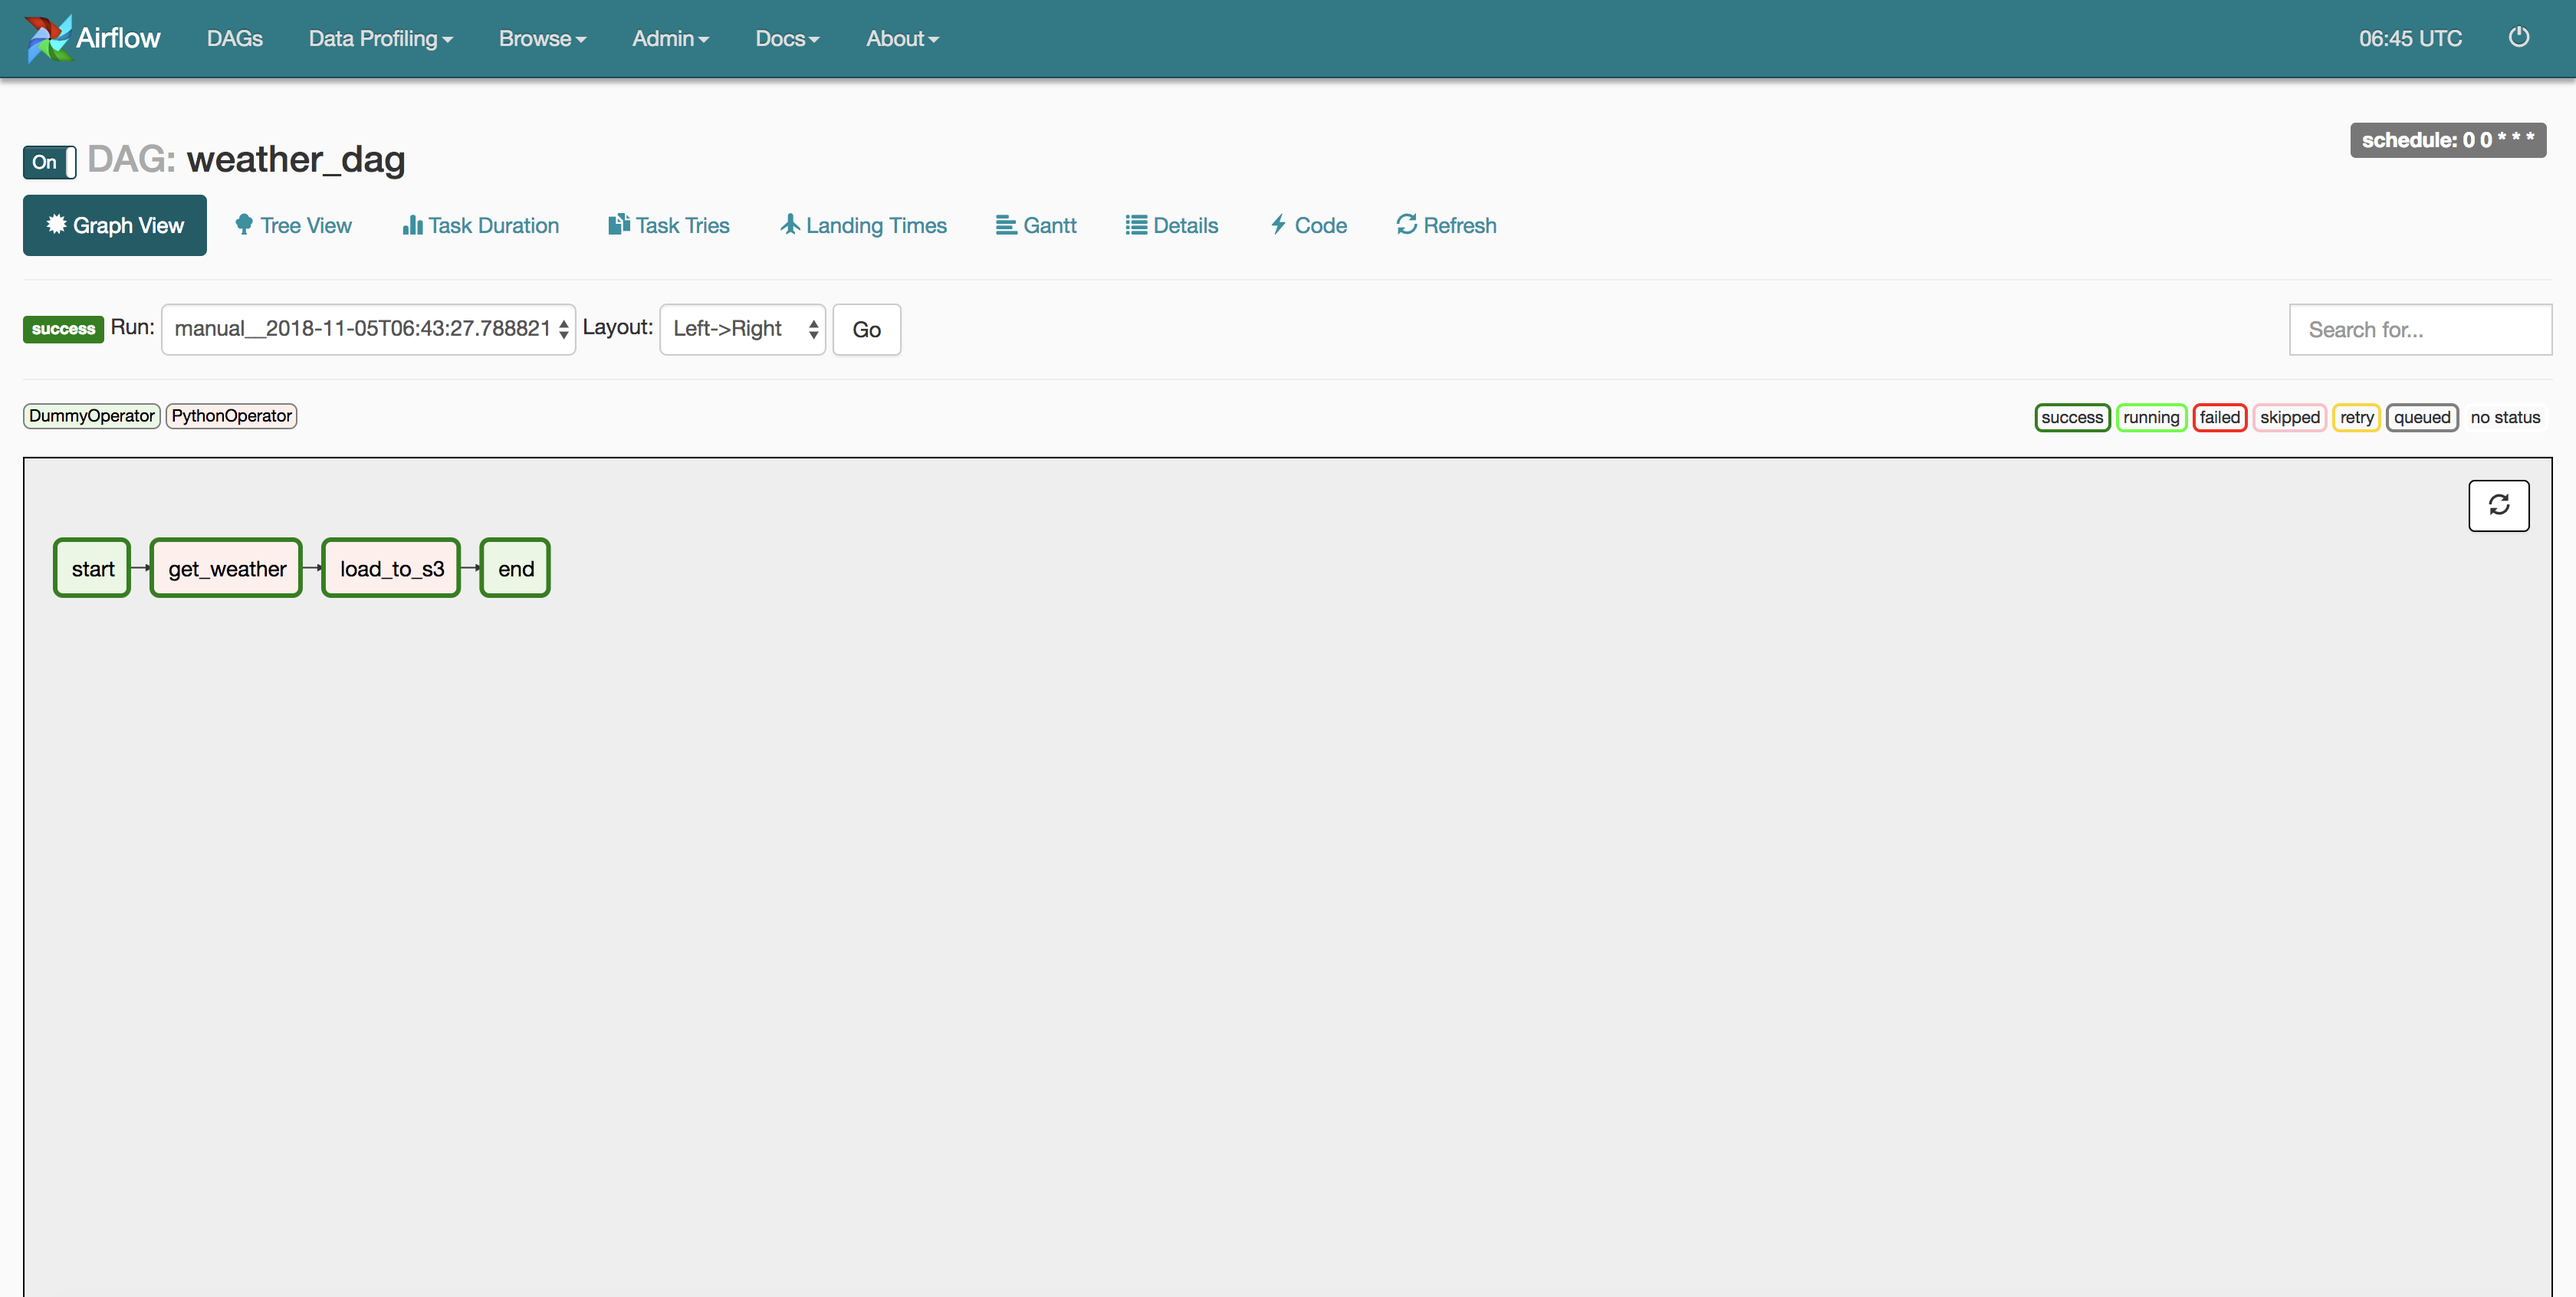
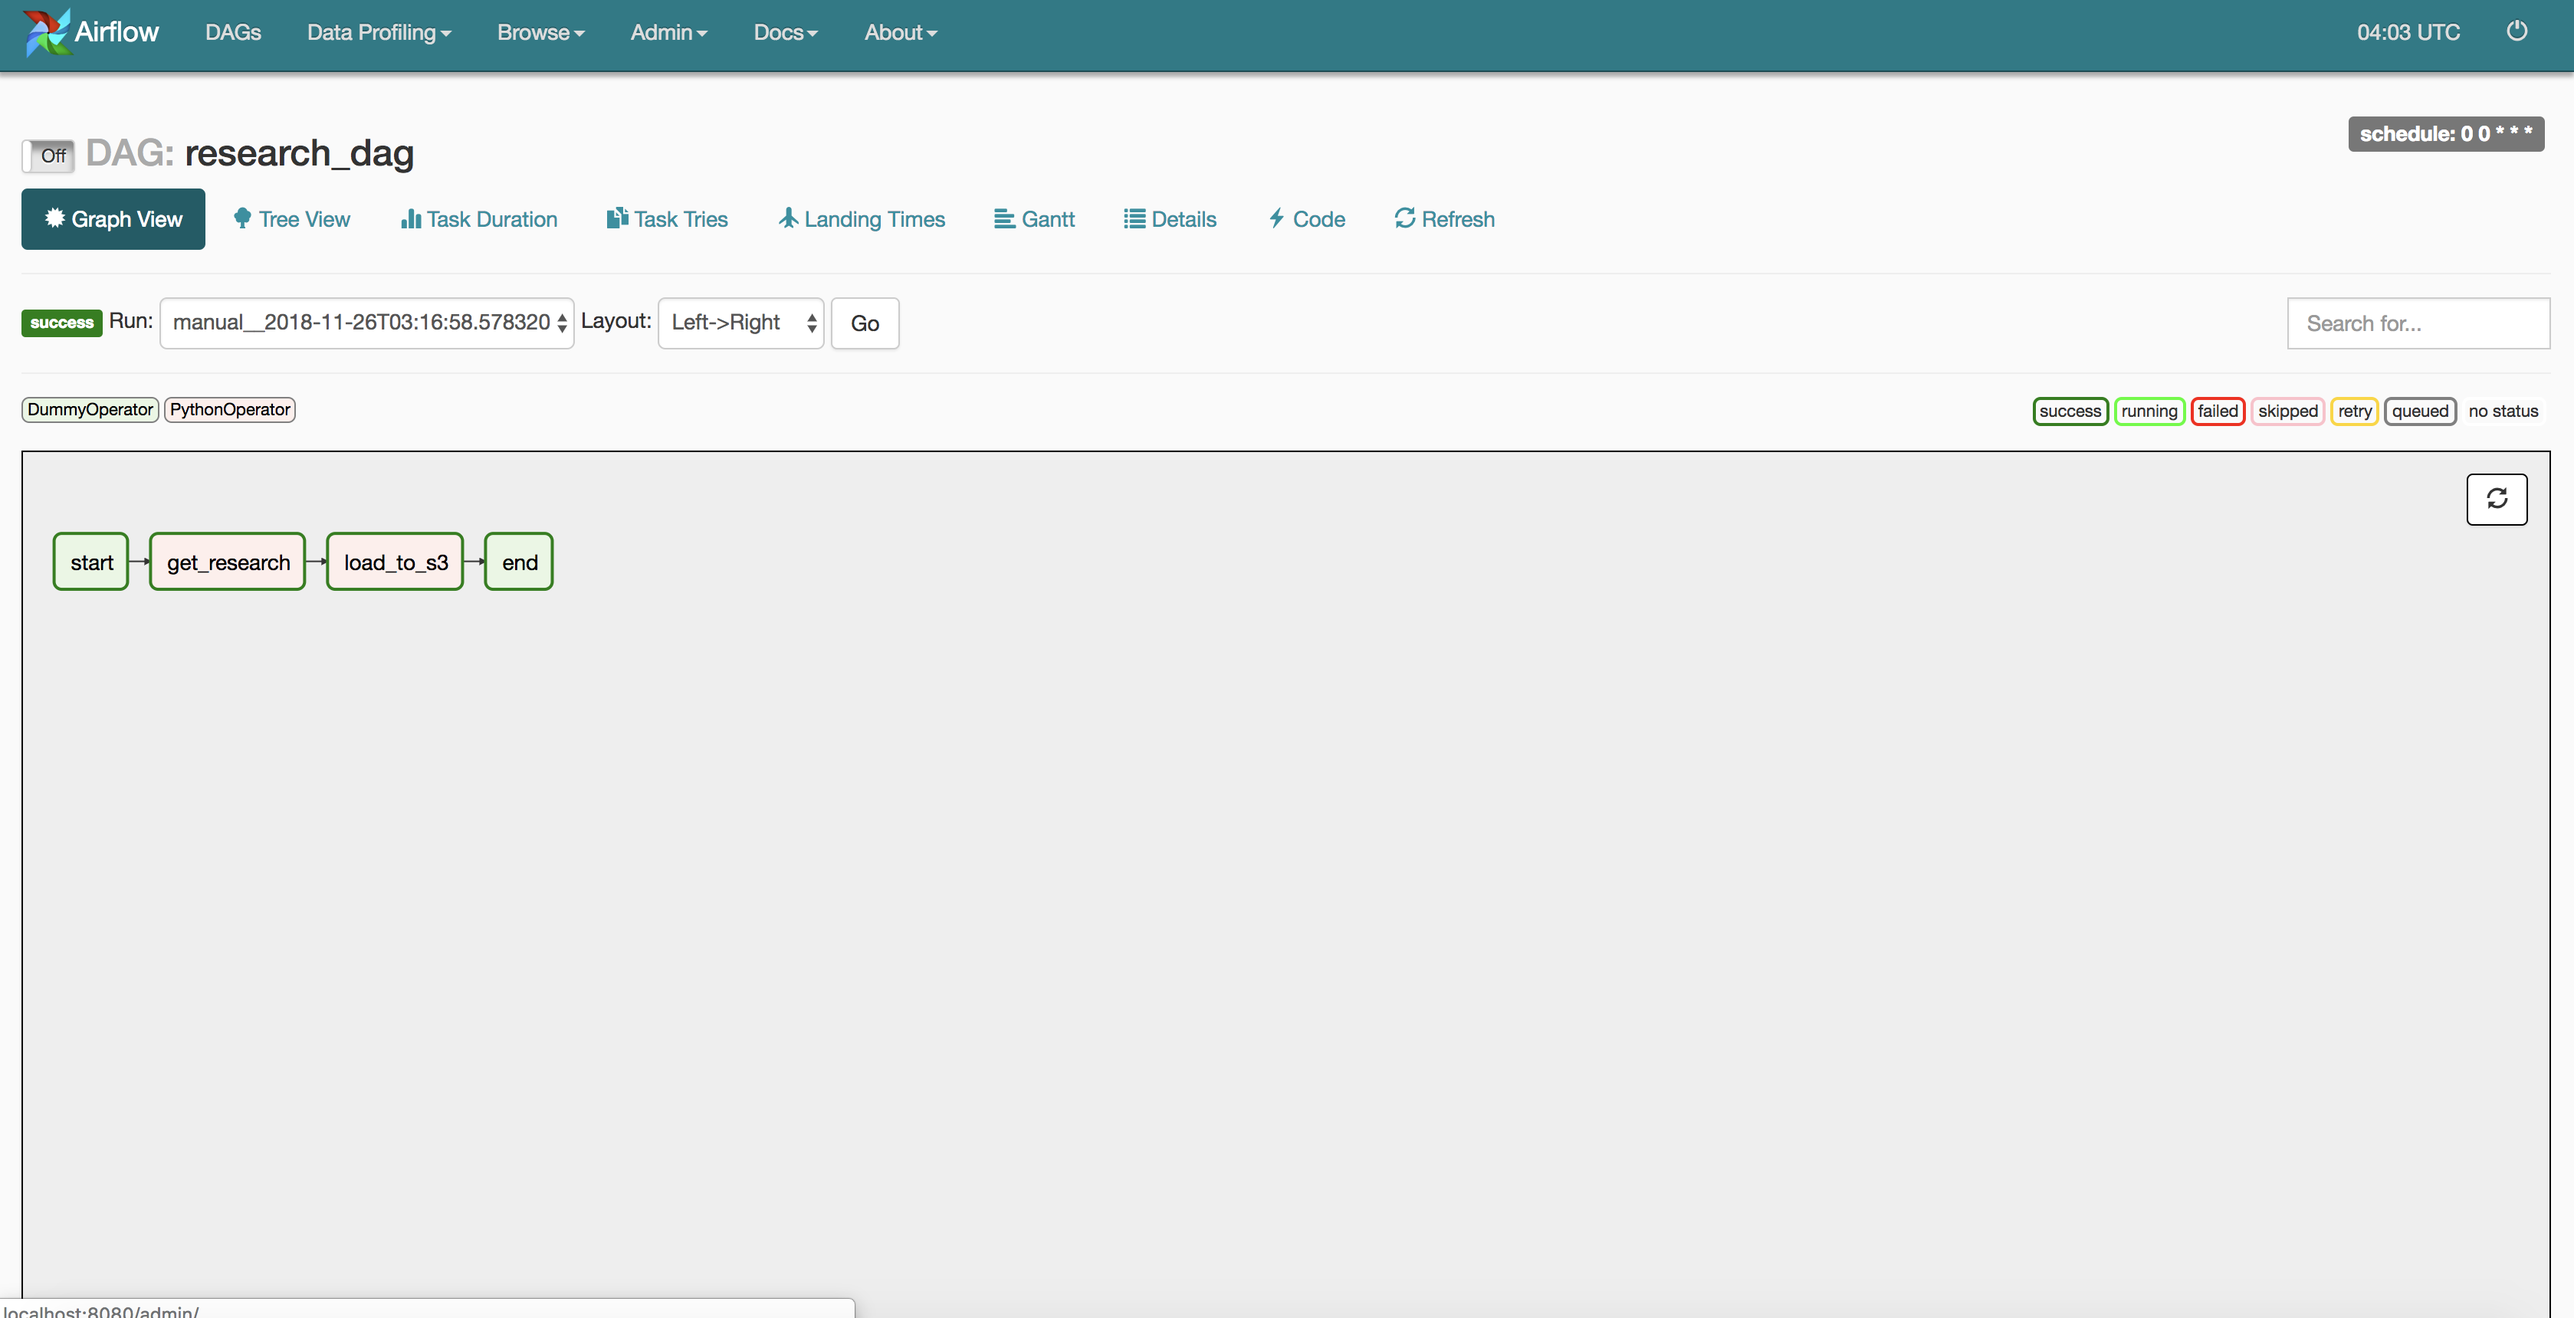
finish airflow README

diff --git a/airflow_demo/dags/research_bag.py b/airflow_demo/dags/research_bag.py
@@ -32,7 +32,7 @@ start_tast = DummyOperator(
 )
 
 
-# Fetch ..., flatten into .csv files, save on local file system
+# Fetch research data flatten into .csv files, save on local file system
 get_research_task = PythonOperator(task_id='get_research',
                                   provide_context=True,
                                   python_callable=c.Extract_Transform.save_csv,

diff --git a/airflow_demo/dags/challenge/load.py b/airflow_demo/dags/challenge/load.py
@@ -19,8 +19,8 @@ class Load:
 		bucket_name = 'storeresearch'
 
 		session = boto3.Session(
-			aws_access_key_id='AKIAIJSTLZQYPLLCLK7Q',
-			aws_secret_access_key='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',
+			aws_access_key_id='',
+			aws_secret_access_key='',
 			region_name='us-east-1'
 		)
 		s3 = session.resource('s3')

diff --git a/airflow_demo/README.md b/airflow_demo/README.md
@@ -1,41 +1,44 @@
-# Simple Airflow Demo 
-This Airflow is just for demo purpose to help demonstrate Producation ETL design. One [Apache Airflow](https://airflow.apache.org) simple data pipeline (weather_bag) to fetch data from [Weather API](https://openweathermap.org/api), transform the data into a tabular structure (.csv), and store the transformed data on [Amazon S3](https://aws.amazon.com/s3/).
+# Sample Airflow Demo 
+This sample Airflow data pipeline is for demo purpose to help demonstrate how to convert ETL python scripts to production data pipeline. One [Apache Airflow](https://airflow.apache.org) data pipeline (research_bag) to fetch research data (articles and journals) from [PLOS Search API](http://api.plos.org/solr/examples) and [DOAJ API](https://doaj.org/api/v1/docs#!/Search/get_api_v1_search_articles_search_query), transform the data into a tabular structure (.csv), and store the transformed data on [Amazon S3](https://aws.amazon.com/s3/).
 
 ## Prerequisites
-1. [Python 3.6](https://www.python.org/) and [Virtualenv](https://virtualenv.pypa.io/en/latest/)
-1.1 conda create -n test_env python=3.6.3 anaconda [apache-airflow is not supporting Python3.7 as of Nov 2018]
-1.2 Activation: conda activate test_env; Deactivation: conda deactivate test_env; Delete: conda remove -n test_env --all;
+1. [Python 3.6](https://www.python.org/) and [Conda](https://conda.io/docs/)
+	* Airflow has not fully compatible with the Python 3.7 so a conda python 3.6 environment has created to running Airflow under Python 3.6
 2. [Docker](https://docs.docker.com/install/) and [Docker Compose](https://docs.docker.com/compose/install/)
-3. A free [Weather API](https://openweathermap.org/api). The key is included in codes for demo purpose but recommended to register a new one to avoid reach usage limit. In production the key should be configured into environment variables.
-4. A free [AWS Account](https://aws.amazon.com/s3/). The S3 access key is removed in codes for demo purpose but in production the key should be configured into environment variables.
+3. A free [PLOS Search API](http://api.plos.org/solr/examples). The key is included in codes for demo purpose but recommended to register a new one to avoid reach usage limit. In production the key should be configured into environment variables.
+4. Create a free [AWS Account](https://aws.amazon.com/s3/) and S3 bucket named **storeresearch**. The S3 access key is removed in codes for confidential purpose.
     * One bucket is created to store transformed csv. 
-    * create bucket named **storeresearchh**: for data pipeline - weather_dag: Store daily weather data for Morse Store.
+    * **storeresearchh**: for data pipeline - research_dag: Store daily research data for given keyword.
 
 ## Quickstart
-1. Run `source env/bin/activate` to activate virtual environment
+1. Under env virtual environment: Run `conda activate test_env` to activate conda Python 3.6 environment
+	* The environment should look similar to `(test_env) (env) USC02X47A1JG5J:airflow_demo xinlutu$`
+	* Run `conda deactivate test_env` to deactivate conda Python 3.6 environment
+	* Run `conda remove -n test_env --all` to delete conda Python 3.6 environment
+	* Run `conda create -n test_env python=3.6.3 anaconda ` to create new conda Python 3.6 environment
 2. Run `make init` to download project dependencies.
-3. Run `make test` to make sure all tests (No testing yet for this simple data pipeline) are passing.
+3. Run `make test` to make sure all tests (No testing yet for this sample data pipeline) are passing.
 4. Run `make run` with docker running to bring up airflow.
     * The Airflow UI/Admin Console should now be visible on [http://localhost:8080](http://localhost:8080).
-    * There is one DAG named `weather_dag`
+    * There is one DAG named `research_dag`
     * BAG is scheduled to run once a day at midnight
 
-## Pipelines Overview
+## Pipeline Overview
 The pipelines are designed to use as few operations as possible to achieve the purpose. The file structures are designed as following: 
 
-			├── <Store Name>
-			│   ├── <pipeline_execution_date>_weather.csv
-			│   ├── <pipeline_execution_date>_weather.csv
+			├── <Keyword>
+			│   ├── <pipeline_execution_date>_research.csv
+			│   ├── <pipeline_execution_date>_research.csv
 	
 			.....
 
 
-**Data Pipeline 1: weather_bag**
+**Data Pipeline: research_bag**
 
-![alt text](https://github.com/xinlutu2/Data_Engineer_Sales_Weather/blob/master/Airflow_demo/images/bag1.png 'BAGs layout')
+![alt text](https://github.com/xinlutu2/research_data_pipeline/blob/master/airflow_demo/images/bag1.png 'BAGs layout')
 
-The result .csv files are uploaded to S3 in **storeweather** as following:
+The result .csv files are uploaded to S3 in **storeresearch** as following:
 
-![alt text](https://github.com/xinlutu2/Data_Engineer_Sales_Weather/blob/master/Airflow_demo/images//bucket1.png 'bucket layout')
+![alt text](https://github.com/xinlutu2/research_data_pipeline/blob/master/airflow_demo/images/bucket1.png 'bucket layout')
 
-![alt text](https://github.com/xinlutu2/Data_Engineer_Sales_Weather/blob/master/Airflow_demo/images//bucket_csv.png 'csv layout')
+![alt text](https://github.com/xinlutu2/research_data_pipeline/blob/master/airflow_demo/images/bucket_csv.png 'csv layout')
